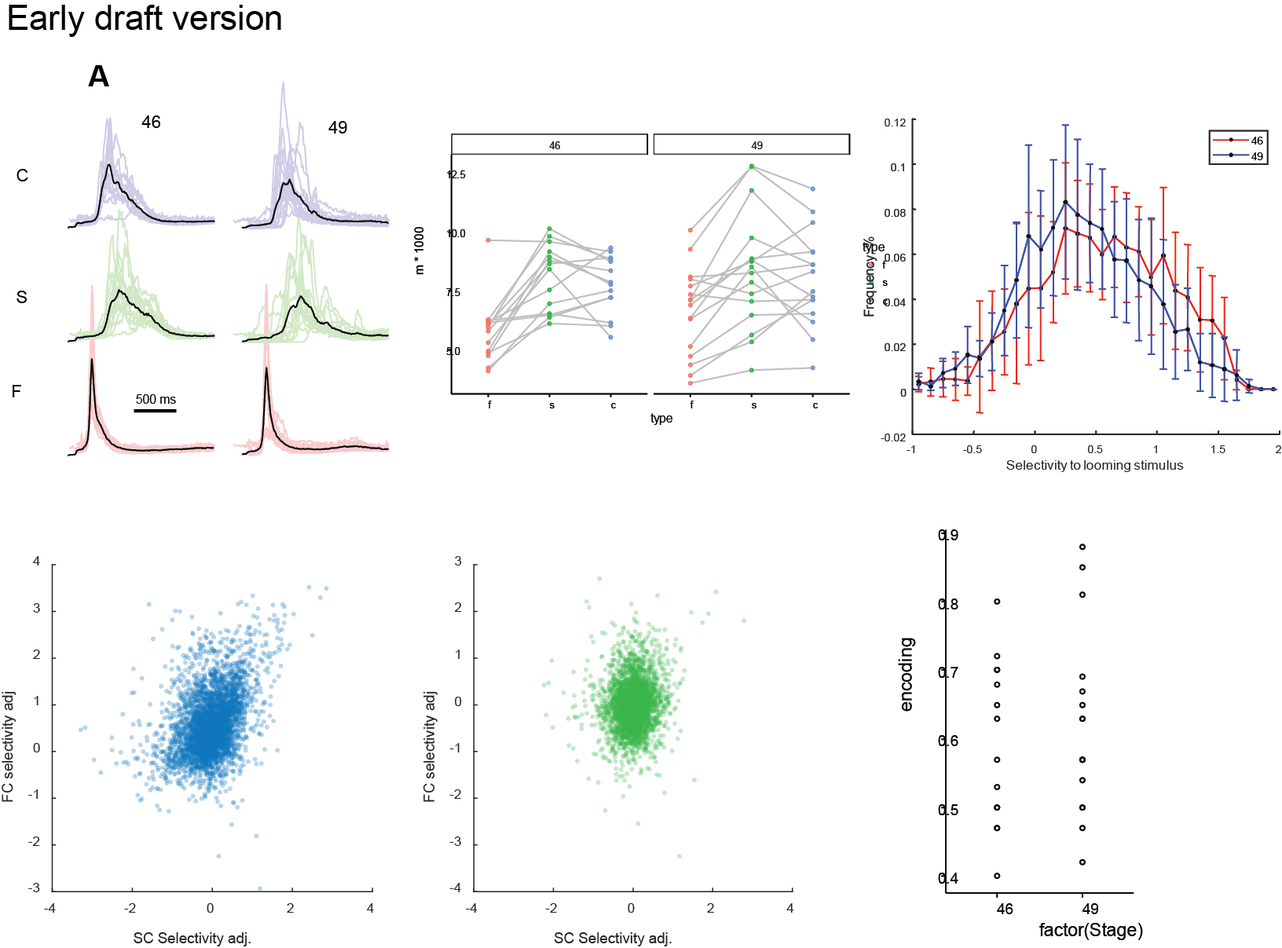
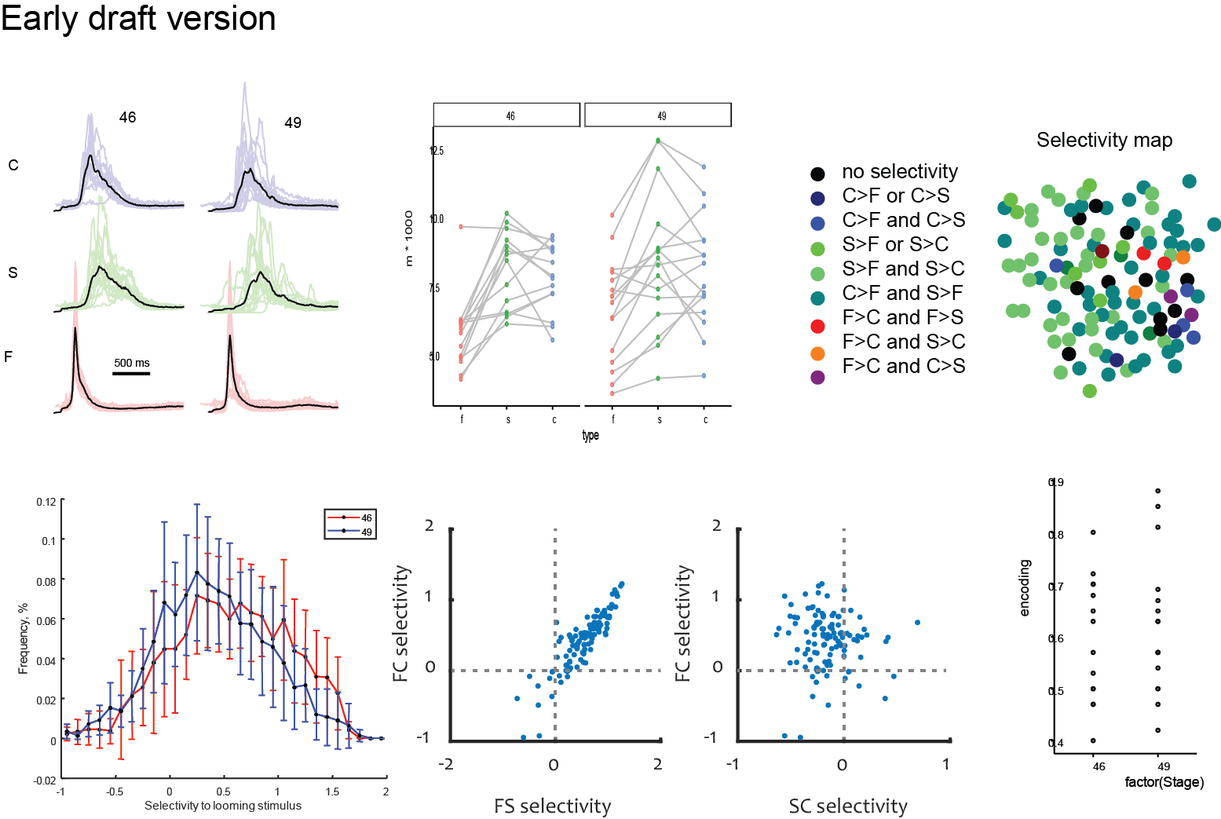
+ figure mock-ups (except fig 4); summary table reworked

diff --git a/main.tex b/main.tex
@@ -20,6 +20,7 @@
 
 %\usepackage{adjustbox} % To change margins around a table. Doesn't work?
 \usepackage{tabularx} % To set table column width, if needed
+\usepackage{rotating} % To write text sidewise
 \usepackage{xcolor}
 \renewcommand{\linenumberfont}{\normalfont\bfseries\small\color{lightgray}}
 \definecolor{linkcolor}{rgb}{0.2,0.6,0.7} % Neuron-style link color
@@ -54,13 +55,13 @@
 % Headers and footers
 \usepackage{fancyhdr}
 \pagestyle{fancy}
-\rhead{EARLY DRAFT: Khakhalin AS. Graph analysis of collision detection networks. Page \thepage}
+\rhead{Khakhalin AS. Graph analysis of collision detection networks. (EARLY DRAFT) Page \thepage}
 \cfoot{} % To kill footer page numbers
 
 \begin{document} % --------------------- Document start ----------------
 
 %TC:ignore 
-% The comment above is for texcount to ignore this text.
+% The comment above is for textcount to ignore this text.
 % It will ignore everything until the endignore pair, and so on.
 % We need to get down to 4500 words in the main text.
 
@@ -70,7 +71,7 @@
 %\twocolumn[
 \begin{flushleft}
 {\Large
-\textbf\newline{Graph analysis of collision detection networks in the tectum, and its replication in a simple computational model}
+\textbf\newline{Graph analysis of collision detection networks in the tectum, and its replication in a simple computational model (EARLY DRAFT)}
 }
 \newline
 % authors go here:
@@ -98,9 +99,9 @@ In different animals, looming detection seems to rely on a variety of networks a
 
 While this co-existence of multiple alternative solutions for looming detection may seem overwhelming, it actually matches the recent insight from the field of machine learning. Simple, crude ways of detecting important features of sensory stimuli are critical for training more sophisticated and efficient networks, that are then used for more nuanced analysis of the sensory world at later stages of development \citep{marblestone2016deeplearning}. In case of looming stimuli in tadpoles, early in development, when collision detection is weak \citep{dong2009}, animals may use “hardwired” dimming receptors in the retina to detect collisions, but also to “bootstrap” more sophisticated motion-dependent networks in the tectum. Later, these motion-dependent networks can serve as a first line of defense, identifying early phases of looming, and providing information to motor neurons in the hindbrain to perform course correction \citep{khakhalin2014,bhattacharyya2017assessment}, yet dimming detectors could remain as a backup, and mediate a more urgent and less coordinated response. Moreover, every time collision avoidance is not performed perfectly, these sensorimotor networks can be further refined, relying on inputs from the lateral line and mechanosensory detectors in the skin \citep{felch2016}.
 
-Traditionally, the golden standard for describing a mechanism of a behavior was to demonstrate that activation of a certain structure is both sufficient and required for this behavior \citep{krakauer2017reductionist}. This reductionist approach works well in some systems, such acoustic startle detectors \citep{korn2005mauthner}, or central pattern generators in the spinal cord \citep{roberts2010hatchling}, that are compact and isolated enough. Yet most systems in the brain act as complex, interconnected, distributed dynamical systems, which makes it hard to represent them as a sum of “parts”, with distinct functions ascribed to each of these parts \citep{gao2015simplicity}. It is possible to study these complex systems statistically, identifying properties that hold “on average”, and differ in functional and dysfunctional networks, but a statistical approach typically does not grant true insight into the “meaning” of these properties \citep{bassett2018models}. For example, knowing that a disordered brain does not adhere to the same statistics as a normal brain would not necessarily tell us how to “fix” this brain, even if we could rewire individual neurons in a targeted fashion.
+Traditionally, the golden standard for describing a mechanism of a behavior was to demonstrate that activation of a certain structure is both sufficient and required for this behavior \citep{krakauer2017reductionist}. This reductionist approach works well in some systems, such acoustic startle detectors \citep{korn2005mauthner}, or central pattern generators in the spinal cord \citep{roberts2010hatchling}, that are compact and isolated enough. Yet most systems in the brain act as complex, interconnected, distributed dynamical systems, which makes it hard to represent them as a sum of “parts”, with distinct functions ascribed to each of these parts \citep{gao2015simplicity}. It is possible to study these complex systems statistically, identifying properties that hold “on average”, and differ in functional and dysfunctional networks, but a statistical approach typically does not grant true insight into the “meaning” of these properties \citep{bassett2018models}. For example, knowing that a disordered brain does not adhere to the same network statistics as a normal brain would not necessarily tell us how to “fix” it, even if we had a method to rewire individual neurons in a targeted fashion.
 
-A more promising approach is to study the origin of functional structures in the brain. Most neural networks are not truly hardwired, but dynamically “evolve” from a set of developmental rules \citep{pietri2017emergence}, similar to how it happens for Turing patterns or fractals \citep{lefevre2010reaction,bullmore2012economy}, and may also rely on streams of structured sensory information coming from the external world \citep{gao2015simplicity}. This insight is encouraging, as the agents that follow these developmental rules are individual cells and their compartments, such as active dendrites and synapses, which implies that while the ultimate product of these rules may be exceedingly complex, the rules themselves have to be relatively simple \citep{bassett2018models}. It may be therefore, that our best chance to truly “understand” the brain lies in studying the sets of rules that lead to the development of functional networks \citep{linderman2017constrain}. This approach proved to be extremely fruitful recently, as several complex network phenomena, including visual receptive fields [ref], grid cells \citep{banino2018grid}, and decision circtuis \citep{haesemeyer2018convergent}, were shown to evolve spontaneously in systems governed by intuitive developmental rules and clear behavioral goals. 
+A more promising approach is to study the origin of functional structures in the brain. Most neural networks are not truly hardwired, but dynamically evolve from a set of developmental rules \citep{pietri2017emergence}, similar to how it happens for Turing patterns or fractals \citep{lefevre2010reaction,bullmore2012economy}, while also relying on streams of structured sensory information coming from the external world \citep{gao2015simplicity}. This insight is encouraging, as agents that follow these developmental rules are individual cells and their compartments, such as active dendrites and synapses, which implies that while the ultimate product of these rules is exceedingly complex, the rules themselves have to be relatively simple \citep{bassett2018models}. Together, it may mean that our best chance to truly “understand” the brain lies in identifying the space of rules that lead to the development of functional networks \citep{linderman2017constrain}. This general approach already proved to be fruitful, as several complex network phenomena, including high-order receptive fields [ref], grid cells \citep{banino2018grid}, and decision circuits \citep{haesemeyer2018convergent}, were shown to evolve spontaneously in systems governed by intuitive developmental rules. 
 
 In this paper, we look at connectomic correlates of looming selectivity in the developing optic tectum of \textit{Xenopus} tadpoles. Tadpole tectum is a model uniquely suitable for studies of sensory integration, as its neurons are excessively plastic \citep{pratt2007intrinsic}[Busch], strongly connected to each other \citep{james2015}[refs], and develop reliable looming selectivity within about a week, as tadpoles mature from developmental stage 46 to stage 49 \citep{dong2009,khakhalin2014}. The refinement of tectal connectivity is dominated by spike-time-dependent plasticity \citep{zhang1998stdp,mu2006stdp}, which is known to favor development of synfire chains \citep{fiete2010chains,zheng2014synfire}: groups of neurons linked with sequential connections that selectively respond to certain patterns of temporal activation \citep{clopath2010stdpcoding}. As  tectal neurons spike relatively slowly, with broad spikes and long refractory periods \citep{ciarleglio2015,jang2016}, these synfire chains are expected to have delays of about 10 ms from one neuron to another, compared to $\sim$2 ms in the mammalian cortex [ref]. This slower signal propagation brings intratectal connections to the threshold of direct detectability by fast Ca imaging techniques that operate at rates of ~100 frames/s, allowing observations of not just co-firing of neurons within each ensemble or clique \citep{reimann2017,avitan2017spontaneous}, but propagation of signal through these ensembles.
 
@@ -140,6 +141,12 @@ Finally, as a most holistic way to quantify tectal network selectivity, we looke
 
 To assess cell-to-cell variability of responses, we performed exploratory factor analysis (principal component analysis, followed by promax rotation) of responses within each preparation. We restricted analysis to looming stimuli, as otherwise factor analysis detected cell-to-cell differences in selectivity, while we wanted to look at differences in dynamics within a single response type. The first and second principal components explained on average 19$\pm$7\% and 4$\pm$1\% of variance in younger tadpoles, and 24$\pm$14\% and 3$\pm$1\% in older tadpoles, and were largely different response timing (Fig. 3A). Early responding cells tended to group together in one part of the recorded field (Fig. 3B), and we were able to quantify the position of this early responding group of cells in each experiment, by maximizing the correlation between distances to the center of interest, and relative scores of the early response component in each cell. The fit was robust, with $p<$ 0.05 in every experiment (30/30), and average achieved correlation of $r=$ 0.59$\pm$0.23. To assess possible overfitting, we performed same analysis after reshuffling cell identities 5 times for each experiment, which yielded average $r$ values of only 0.13$\pm$0.06, and $p_r<$ 0.05 in 21\% of experiments. From this we concluded that spatial clustering of cells with early responses to looming stimuli was not an artifact of analysis, even though "optimization of correlations" exaggerated its effect. We interpreted spatial clustering of early-responding cell is a manifestation of a retinotopic map well known to exist in the tectum \citep{ruthazer2004map}, as this map reproduced a looming stimulus projected on the retina. Across cells, the latency of average response correlated with distance from the retinotopy center ($r=$ 0.35 $\pm$ 0.24; correlations individually significant in 25/30 experiments), despite our latency estimations being noisy, especially for low-amplitude cells. Curiously, while visual projections to the tectum are known to be actively remodeled in development \citep{sakaguchi1985refinement,ruthazer2004map,munz2014hebbian}, the quality of functional retinotopic map did not differ between younger and older tadpoles, at least judging from correlations between early component prominence and cell position, that did not change in development (Fig. 3E; $r=$ 0.63 $\pm$ 0.21 and 0.57 $\pm$ 0.25 respectively, $p_t= $0.5), similar to reports in Zebrafish \citep{avitan2016limitations}.
 
+\begin{figure*}
+\includegraphics[width=\linewidth]{fig3.png}
+\caption{
+Spatial variability. \textbf{A}. \textbf{B}. \textbf{C}. \textbf{D}. \textbf{E}. \textbf{F}. }
+\end{figure*}
+
 Knowing where the looming stimulus responses originated within the tectum, we could then check whether looming-selective cells were more likely to be found in the center of the expanding activation area (as it would be expected if collision detection was retinotopic \citep{frost2004review} and based on feedback excitation \citep{jang2016}, or at the periphery, as predicted by the synfire model \citep{clopath2010stdpcoding,fiete2010chains}. We found that selectivity for looming stimuli over flash tended to decrease with distance from the estimated projection center (Fig. 3G) for both stage 45 (average $r=-$0.37$\pm$0.27; individual correlations $p_r<$0.05 in 12/14 experiments), and stage 49 tadpoles (average $r=-$0.09$\pm$0.35; $p_r<$0.05 in 12/16 experiments), indicating that looming-selective cells tended to be located in the center of the emerging spatial response. Similarly, at both developmental stages, selectivity decreased with response latency (stage 46: $p_r<$0.05 in 11/14 animals, average $r=-$0.29$\pm$0.11; stage 49: $p_r<$0.05 in 10/16 animals, average $r=-$0.16$\pm$0.21). Both correlations were weaker in older tadpoles ($p_t=$ 0.02 for distance-selectivity, $p_t=$ 0.03 for latency-selectivity), indicating a more uniform distribution of looming-selective cells within the network.
 
 % Note that here selectivity is based on total responses across a whole second, and so much of this spiking happens really late. As a result, cells that spike early are also sensitive. But it's not clear whether it's actually because they are selective (get more relevant activation), or just can be activated for longer (because they start earlier), or because they receive some later recurrent activation (which would be real, but not relevant for collision avoidance)
@@ -150,7 +157,7 @@ Knowing where the looming stimulus responses originated within the tectum, we co
 
 We then assessed the \textbf{trial-to trial variability} of tectal responses, to see whether it changed in development, as it was reported for variability of spontaneous activity \citep{xu2011}. We performed principal component analysis of response waveforms, and looked at the total number of components that was needed to describe 80\% of variability in the data \citep{avitan2017spontaneous}. We found that this number was similar in stage 46 and 49 tadpoles, with a minor increase in response richness in older animals (insignificant for each stimulus alone, but consistent across stimuli): 51$\pm$14 and 65$\pm$28, $p_t$=0.1 for responses to looming stimuli; 49$\pm$12 and 62$\pm$32, $p_t$=0.2 for flashes; 51$\pm$14 and 64$\pm$26, $p_t$=0.1 for scrambled stimuli.
 
-To describe network activation variability, we used spectral clustering technique to find \textbf{ensembles} of tectal cells that were either active together, or silent together on a trial-by-trial basis \citep{thompson2016ensembles}. Unlike for recordings of spontaneous activity, we could not easily aggregate activity states into clusters \citep{avitan2017spontaneous}, as activation in our networks was driven by shared sensory inputs. Instead, we subtracted normalized average responses of each cell from its responses in individual trials, and calculated pairwise correlations on the remaining “anomalies” of trial-by-trial activation (Fig, see “Methods”). We turned these pairwise correlations into pairwise distances in a multidimensional space, ran a series of spectral clustering partitions \citep{ng2002spectral}, and of all possible partitions, picked the one that maximized spectral modularity \citep{newman2006modularity,gomez2009community}. We found that the number of ensembles did not differ between younger and older tadpoles (10$\pm$5 in stage 45, 11$\pm$11 in stage 49; $p_t$=0.9; Fig), but in older tadpoles ensembles were less isolated from each other, producing lower values of network modularity (0.14$\pm$0.05 to 0.09$\pm$0.06, $p_t$=0.03; Fig). This implies stronger coordination between ensembles in older tadpoles. Tectal ensembles also tended to be spatially localized (Fig): cells that shared an ensemble were on average closer to each other than to cells from different ensembles, for both younger (29$\pm$9\% closer) and older animals (25$\pm$10\% closer; no difference in development $p_t$=0.3).
+To describe network activation variability, we used spectral clustering technique to find \textbf{ensembles} of tectal cells that were either active together, or silent together on a trial-by-trial basis \citep{thompson2016ensembles}. Unlike for recordings of spontaneous activity, we could not easily aggregate activity states into clusters \citep{avitan2017spontaneous}, as activation in our networks was driven by shared sensory inputs. Instead, we subtracted normalized average responses of each cell from its responses in individual trials, and calculated pairwise correlations on the remaining “anomalies” of trial-by-trial activation (see “Methods”). We turned these pairwise correlations into pairwise distances in a multidimensional space, ran a series of spectral clustering partitions \citep{ng2002spectral}, and of all possible partitions, picked the one that maximized spectral modularity \citep{newman2006modularity,gomez2009community}. We found that the number of ensembles did not differ between younger and older tadpoles (10$\pm$5 in stage 45, 11$\pm$11 in stage 49; $p_t$=0.9; Fig. 3X), but in older tadpoles ensembles were less isolated from each other, producing lower values of network modularity (0.14$\pm$0.05 to 0.09$\pm$0.06, $p_t$=0.03; Fig). This implies stronger coordination between ensembles in older tadpoles. Tectal ensembles also tended to be spatially localized (Fig. 3X): cells that shared an ensemble were on average closer to each other than to cells from different ensembles, for both younger (29$\pm$9\% closer) and older animals (25$\pm$10\% closer; no difference in development $p_t$=0.3).
 
 \subsection*{Network reconstruction}
 
@@ -159,6 +166,12 @@ The high speed of video acquisition used in this study (83 frames/s) allowed us 
 To reconstruct network connectivity, we calculated transfer entropy \citep{gourevitch2007te,stetter2012te}. Intuitively, for each pair of neurons $i$ and $j$ we quantified the amount of additional information that past activity of neuron $i$ can provide to predict current activity of neuron $j$. This is similar to calculating a cross-correlation between the activity of neurons $i$ and $j$ in frames $t$ and $t+1$ respectively, but unlike for a correlation, transfer entropy does not make assumptions about the function that links activities of neurons $i$ and $j$. It means that in a general case, TE has a higher power to detect causal links in the network \citep{stetter2012te}.
 
 In our experiments, all tectal neurons received shared inputs from the eye, which recruited them in similar response sequences in each trial. This complicated connectivity inference, as neurons could spike in a sequence both because they were connected, and because they received innervation from sequentially activated areas of the retina. To compensate for these shared inputs, we randomly reshuffled trials for every neuron, calculated average transfer entropy on reshuffled data, and subtracted it from the transfer entropy on trial-matched data \citep{gourevitch2007te,wollstadt2014te}. In essence, instead of analyzing raw responses, we analyzed small deviations from the average response, and quantified whether these deviations tended to propagate through the network, from one neuron to another. The reshuffling step also allowed us to calculate a $p$-value for each pair of neurons, and quantify how unusual the actually observed value of transfer entropy was for this pair of neurons, compared to a value arising from shared inputs, but no causal connections.
+
+\begin{figure*}[t]
+\includegraphics[width=0.5\linewidth]{fig4.png}
+\caption{
+Spatial variability. \textbf{A}. \textbf{B}. \textbf{C}. \textbf{D}. \textbf{E}. \textbf{F}. }
+\end{figure*}
 
 We interpreted transfer entropy values as approximations of weights in an connectivity matrix $\textbf{W}$, with $w_{ji}$ describing the strength of connection from neuron $i$ to neuron $j$ (Fig. 4A). We calculated $\textbf{W}$ and corresponding $p$-values independently on looming, flash, and scrambled stimuli, and used these independent estimations to ensure some level of internal replication within each experiment (see Methods). Of all possible edges, 1.6$\pm$1.4\% were found to be non-zero in all three independent analyses, which was significantly higher than 0.6$\pm$0.09\% expected if edge discoveries were random (paired t-test $p_{tp}=$ 9e-9). Finally, in each experiment, we introduced cut-offs on $w_{ji}$ and $p$-values, to exclude weak noisy edges from the connectivity graph. We automatically adjusted these cut-offs in every experiment, to set the average node degree for each network (the average number of connections per node) as close to 1.0 as possible. It means that in each network, the total number of non-zero edges in the graph was equal to the number of nodes (recorded cells); an approach common for noisy network analysis \citep{stetter2012te}[refs]. With the average total degree set at 1.0, the effective significance thresholds on $p$-values for individual edges were between 0.001 and 0.007 (median 0.004).
 
@@ -198,6 +211,12 @@ We also hypothesized that on average selectivity for looming stimuli may gradual
 
 \subsection*{Developmental Model}
 
+\begin{figure*}[t!]
+\includegraphics[width=\linewidth]{fig6.png}
+\caption{
+Spatial variability. \textbf{A}. \textbf{B}. \textbf{C}. \textbf{D}. \textbf{E}. \textbf{F}. }
+\end{figure*}
+
 As the networks we studied are complex and noisy, it was hard to provide a clear mechanistic interpretation of our results, especially as in some cases when we used alternative ways to quantify the same intuition, we found the evidence conflicting. For example, for statistical network properties, the effects of non-random degree distribution and mesoscale graph structure often affected network properties in opposite directions (Fig), leading to small total effects. Similarly, when we tried to quantify how “integrative” was the position of each cell within the connectivity graph, only some of these measurements correlated with cell selectivity for looming stimuli, and it was not clear which of these measurements are objectively “better”, in terms of reflecting the true properties of the network.
 
 To compensate for these limitations, and to provide a theoretical counterpoint to our observations, we built a mathematical model of the developing tectum, and ran this model through the same set of measurements that we applied to our experiments. The model consisted of 81 artificial neurons, arranged in a 9 by 9 grid, that were originally all connected to each other (every neuron to every neuron) with random positive (excitatory) synaptic weights (Fig). The model operated in 10 ms increments, and we interpreted the output of each neuron as its instantaneous firing rate. At each time frame we looked at the activity of the network in the previous frame, and summed up the inputs each neuron would receive from each other neuron. We then used a sliding logistic function to translate these synaptic inputs into postsynaptic spiking (see “Methods” for details).
@@ -206,7 +225,13 @@ To allow the network develop in time, we introduced three simple developmental r
 
 With these three rules at play, we exposed the model to patterned sensory stimulation, modeling retinotopic inputs from the eye. For the main series of computational experiments, we hypothesized that in biological networks, STDP-driven changes may be amplified by a learning signal \citep{savin2014stdpreward,aswolinskiy2015stdpreward} originating either in dimming receptors in the retina \citep{baranauskas2012}, or mechanosensory systems of the hindbrain \citep{pratt2009multisens,felch2016,truszkowski2017}. Therefore, in the main set of experiments, we only exposed our model to looming stimuli (but see sensitivity analysis below). The network was allowed to develop for 12500 time steps, experienced at least 500 looming stimuli, and we saved its topology at five equally spaced time points during this process, from a naive network, to its final state. We ran independent simulations 50 times, and for each network snapshot we analyzed the properties of the connectivity graph, as well as the responses of each network to “model visual stimuli” that included a looming stimulus, a scrambled stimulus, and a full-field flash. We then analyzed these data in the same way as we did for biological experiments.
 
-The summary of modeling results is shown in Fig. In development, the network became selective for looming stimuli, both in terms of the total response (by the end of development, responding to looming 99$\pm$9\% stronger than to flash) and mean selectivity (mean Cohen $d$ of responses = 1.09$\pm$0.10). The share of cells selective for looming stimuli also increased, and then saturated at $\sim$98\% level, as did the selectivity of the top 10\% of most selective cells.
+\begin{figure*}[t!]
+\includegraphics[width=\linewidth]{fig7.png}
+\caption{
+Model results. \textbf{A}. \textbf{B}. \textbf{C}. \textbf{D}. \textbf{E}. \textbf{F}. }
+\end{figure*}
+
+The summary of modeling results is shown in Fig. 7. In development, the network became selective for looming stimuli, both in terms of the total response (by the end of development, responding to looming 99$\pm$9\% stronger than to flash) and mean selectivity (mean Cohen $d$ of responses = 1.09$\pm$0.10). The share of cells selective for looming stimuli also increased, and then saturated at $\sim$98\% level, as did the selectivity of the top 10\% of most selective cells.
 
 To test whether in our model the nature of visual stimuli could be reconstructed from network activation (stimulus encoding), we used a logistic regression on a vector of total cell responses, as it was done for biological data. We then used a different dataset, consisting of equal shares of looming and non-looming stimuli, to assess the accuracy of our model. The prediction power increased in development, and plateaued at the accuracy level of $\sim$95\%. This suggests that a retinotopic STDP-driven network can achieve highly reliable looming detection if it is equipped with an output layer, potentially representing motor neurons in the hindbrain, and the weights of connections to the output layer are set correctly, e.g. via reinforcement learning.
 
@@ -224,12 +249,12 @@ Finally, we observed that most network measures changed with network development
 
 To better assess whether the predictions of the model were confirmed in experiments, we formulated a list of “atomic”, elementary statements about each of the measures were analyzed, looking at whether they changed in development, whether they increased or decreased, and whether they differed from similar measures in a randomized network (Table 1, first two columns). Overall, the model and the experiments were similar in flash-looming selectivity, but did not match in terms of scrambled-looming selectivity. The interplay between cell position and connectivity was also similar, except for the spatial distribution of looming-selective cells within the retinotopic map, which was peripheral in the model, but central in tadpoles. Changes in degree distributions were well matched, but except for modularity, other network measures did not match. When correlations between different measures of node centrality and cell selectivity were considered, some of them matched, but many did not.
 
-\newgeometry{left=1in} % This page will have smaller margins
+%\newgeometry{left=1in} % This page will have smaller margins
 \begin{table}
     \input{table1.tex}
     \caption{A summary of network phenomena observed in biological experiments, in comparison with the base model, and several reduced models. For clarity, we use $\checkmark$ for "yes", $\times$ for "no", $\land$ for "increase", $\lor$ for "decrease", $\land \lor$ for "increase followed by decrease", and $=$ for "no change". FL stands for "Flash-Looming" comparisons; SL - Scrambled-Looming comparisons; corr denotes correlation.}
 \end{table}
-\restoregeometry
+%\restoregeometry
 
 \subsection*{Sensitivity analysis}
 
@@ -430,7 +455,7 @@ with $\bar{a}$ and $\bar{b}$ representing weighted mean values:
 
 Note that this definition seems to differ slightly from the one used in the Brain Connectivity Toolbox \citep{rubinov2010toolbox}.
 
-\textbf{Unreported analyses}. For the sake of transparency, we report the list of measures that were calculated, but were hard to interpret, and so were not included in the final manuscript: four measures of weighted directed degree assortativity (in-in, in-out, out-in, and out-out); pagerank centrality; Katz centrality on reversed graph $W'$; hierarchical flow for reversed graph; node reach on direct and reversed graphs (unweighted analog of Katz centrality without attenuation); as an alternative measure of cell selectivity, McFadden’s pseudo-$R$ for a logistic fit of stimulus identity to the total response of each cell. We also made several attempts to estimate the prevalence of directed cycles in our networks, but these new measures require further validation.
+\textbf{Unreported analyses}. For the sake of transparency, we report the list of measures that were calculated, but were hard to interpret, and so were not included in the final manuscript: four measures of weighted directed degree assortativity (in-in, in-out, out-in, and out-out); pagerank centrality; Katz centrality on reversed graph $W'$; hierarchical flow for reversed graph; node reach on direct and reversed graphs (unweighted analog of Katz centrality without attenuation); as an alternative measure of cell selectivity, McFadden’s pseudo-$R$ for a logistic fit of stimulus identity to the total response of each cell, as an alternative measure of cell selectivity. We also made several attempts to estimate the prevalence of directed cycles in our networks, but realized that these new measures require excessive  validation.
 
 \subsection*{Developmental Model}
 
@@ -468,11 +493,11 @@ where $c$ is a steepness parameter, set at $c=$ 20, and $h_i(t)$ is the current 
 
 where $\kappa=$ 0.05 is a constant that controls the rate of averaging, and $r_h=$ 0.1 is the rate at which spiking thresholds $h_i$ were allowed to adjust, to bring the discrepancy between the target spiking rate $\hat{s_i}$ and running average spiking rate $\bar{s_i}(t)$ to zero.
 
-Once spiking of each neuron at the new time step $s_i(t)$ was calculated, we performed the \textbf{spike-time dependent plasticity} (STDP) step, and adjusted synaptic weights $w_{ji}$ linking neurons in the network. The intuition behind STDP in discrete time can be described by the following system, with options 1 and 2 not mutually exclusive:
+Once spiking of each neuron at the new time step $s_i(t)$ was calculated, we performed the \textbf{spike-time dependent plasticity} (STDP) step, and adjusted synaptic weights $w_{ji}$ linking neurons in the network. The intuition behind STDP in discrete time can be described by the following system, with options 1 and 2 not being mutually exclusive:
 
 \[ w_{ji}(t+1) = \left \{ \begin{array}{lll} w_{ji}(t)+\epsilon, & \text{if } s_i(t)\neq 0 \text{ and } s_j(t+1)\neq 0 \\ w_{ji}(t)-\epsilon, & \text{if } s_i(t)\neq 0 \text{ and } s_j(t)\neq 0 \\ w_{ji}(t) & \text{if } s_i(t)=0\end{array} \right. \]
 
-As in our model neuronal activity $s_i(t)$ was continuous, the non-exclusive system above can be represented by the formula:
+where $\epsilon$ is a change in synaptic weight. As in our model neuronal activity $s_i(t)$ was continuous, and we wanted the synaptic change to be proportional to the overlap in neuronal activity, the non-exclusive system above can be rewritten as:
 
 \[ w_{ji}(t+1) = w_{ji}(t) + r_w \big(s_i(t)w_{ji}(t)s_j(t+1) - s_i(t)w_{ji}(t)s_j(t)\big) \]
 
@@ -482,7 +507,7 @@ or
 
 where $r_w$ is a constant that controls the level of synaptic plasticity; for this model $r_w$ = 0.25 .
 
-Finally, we modeled \textbf{synaptic competition} by introducing a negative feedback, to limit the total sum of all inputs to each neuron, and all output of each neuron. At every time step, we used the weight matrix W to calculate a modified matrix $\textbf{W}^\text{i}$, with sum of inputs to each neuron normalized to a certain fixed value $g$ = 1.5, and a modified weight matrix $\textbf{W}^\text{o}$, for which the total sum of outputs of each neuron was normalized to the same value: 
+Finally, we modeled \textbf{synaptic competition} by introducing a negative feedback, to limit the total sum of all inputs to each neuron, and all output of each neuron. At every time step, we used the weight matrix $\textbf{W}$ to calculate a modified matrix $\textbf{W}^\text{i}$, with sum of \textit{inputs} to each neuron normalized to a certain fixed value $g$ = 1.5, and a modified weight matrix $\textbf{W}^\text{o}$, for which the total sum of \textit{outputs} of each neuron was normalized to the same value: 
 
 \[ w_{ji}^\text{i} = g \cdot w_{ji}/\sum_k{w_{jk}} \]
 \[ w_{ji}^\text{o} = g \cdot w_{ji}/\sum_k{w_{ki}} \]
@@ -491,7 +516,7 @@ We then “moved” our actual weight matrix in the direction of the average of 
 
 \[ w_{ji}(t+1) = 0.4 \cdot w_{ji} + 0.3 \cdot w^\text{i}_{ji} + 0.3 \cdot w^\text{o}_{ji} \]
 
-Networks were activated with \textbf{simulated visual stimuli} that resembled sensory activation a real animal would have experienced when navigating in a bright-lit environment with sparsely placed black spheres. For general visual stimulation (only used in sensitivity experiments), we repeatedly created unique collision events, with randomized original position of a black sphere relative to the tadpole, final distance to the tadpole, and direction of movement through the visual field. We would then move the projection of this virtual sphere across the virtual retina over a course of $\tau=$10 time frames.  When training on looming stimuli (main series of computational experiments), we still initiated objects at random points within the visual field, but made sure that they approached the eye on a "collision trajectory", and at some point covered the entirety of the visual field. When training on noise, we generated random noise with $\zeta$=9 pixels flicking on at any given time. For looming and "general visual" stimuli, a projection of a sphere on the virtual retina was a solid circle, with its center moving linearly $(x,y) = (x_0,y_0)+(v_x,v_y)\cdot t/\tau$, and circle radius changing as $R(t) = R_0/(d_0 - v_z*t/\tau)$. The virtual retina consisted of 81 pixels, arranged in a 9x9 grid, that generated both "ON" and "OFF" responses without delay or bursting, as an exclusive OR of two consecutive projections $\text{in}(t) = \text{XOR}(\text{img}(t),\text{img}(t-1))$, and had one-to-one projections to nodes in the model network.For testing, we compared responses to flashes, crashes, and scrambled stimuli. "Crashes" were different from looming stimuli in that the change of projection radius with time was linear $R(t) = \sqrt{2}\zeta/2(t/\tau)$, rather than realistic; this was because we used linearly expending looming stimuli in biological experiments, both in this study, and in earlier studies \citep{khakhalin2014}. "Scrambled" stimuli were identical to "Crashes", with all 81 pixels randomly reassigned. "Flashes" were modeled as very fast looming stimuli that took exactly 2 frames to fill the entire field of view, and with pixels reshuffled; we had to use this approximation to introduce some variability into responses to flashes, while keeping them as close to instantaneous as possible.
+Networks were activated with \textbf{simulated visual stimuli} that resembled sensory activation a real animal would have experienced when navigating in a bright-lit environment with sparsely placed black spheres. For general visual stimulation (only used in sensitivity experiments), we repeatedly created unique collision events, with randomized original position of a black sphere relative to the tadpole, final distance to the tadpole, and direction of movement through the visual field. We would then move the projection of this virtual sphere across the virtual retina over a course of $\tau=$ 10 time frames.  When training on looming stimuli (main series of computational experiments), we still initiated objects at random points within the visual field, but made sure that they approached the eye on a "collision trajectory", and at some point covered the entirety of the visual field. When training on noise, we generated random noise with $\zeta=$ 9 pixels flicking on at any given time. For looming and "general visual" stimuli, a projection of a sphere on the virtual retina was a solid circle, with its center moving linearly $(x,y) = (x_0,y_0)+(v_x,v_y)\cdot t/\tau$, and circle radius changing as $R(t) = R_0/(d_0 - v_z \cdot t/\tau)$. The virtual retina consisted of 81 pixels, arranged in a 9x9 grid, that generated both "ON" and "OFF" responses without delay or bursting, as an exclusive OR of two consecutive projections $\text{in}(t) = \text{XOR}(\text{img}(t),\text{img}(t-1))$, and had one-to-one projections to nodes in the model network.For testing, we compared responses to flashes, crashes, and scrambled stimuli. "Crashes" were different from looming stimuli in that the change of projection radius with time was linear $R(t) = \zeta/2 \cdot \sqrt{2} \cdot t/\tau$, rather than realistic; this was because we used linearly expending looming stimuli in biological experiments, both in this study, and in earlier studies \citep{khakhalin2014}. "Scrambled" stimuli were identical to "Crashes", but with all 81 pixels randomly reassigned. "Flashes" were modeled as very fast looming stimuli that took exactly 2 frames to fill the entire field of view, and with pixels reshuffled; as our model was deterministic, we had to use this approximation to introduce some variability into responses to flashes, while keeping them as close to instantaneous as possible.
 
 While testing networks trained on different sensory stimuli, we ran into a surprising complication: during training, different stimuli provided different levels of average activation, and so not only differently shaped synaptic connections between different cells, but also, because of intrinsic plasticity, resulted in neurons acquiring different activation thresholds. This difference in excitability however was an artifact of our training method, and did not approximate any real biological phenomena, as in real tadpoles visual stimuli are expected to be relatively sparse, while we fed all stimuli to the network as one intense train with no gaps. We therefore decided to let all spiking thresholds settle down before testing, to a state that was dependent only on synaptic connectivity, and not on recent stimulation history. We let the model develop for 2000 additional time steps, with only homeostatic plasticity rule on, but without STDP or synaptic scaling, while feeding all neurons with Poisson random noise that activated on average $\zeta$ = 9 neurons at each time step. 
 
@@ -517,7 +542,7 @@ we used an equation with symmetrical Hebb plasticity, and no negative depression
 
 \section*{Acknowledgements}
 
-My greatest gratitude is to Carlos Aizenman who encouraged me to publish this work as a single author, even though the experiments described here were performed on his equipment, and the materials were paid for by the money from his grant (NSF IOS-1353044). I also thank Heng Xu (Shanghai Jiao Tong University) for his help with first imaging experiments; Joshua Vogelstein (John Hopkins) for his advice on adaptive thresholding; Petko Bogdanov (SUNY Albany), Csilla Szabo (Skidmore College), Gerrit Ansmann (Bonn University), and Jim Belk (St Andrews University) for their help with network science and graph theory, and Sven Anderson (Bard College) for advice on model analysis.
+My greatest gratitude is to Carlos Aizenman who encouraged me to try to publish this work as a single author, even though all experiments described here were performed on his equipment, and the materials were paid for by the money from his grant (NSF IOS-1353044). I also thank Heng Xu (Shanghai Jiao Tong University) for his help with first imaging experiments; Joshua Vogelstein (John Hopkins) for his advice on adaptive thresholding; Petko Bogdanov (SUNY Albany), Csilla Szabo (Skidmore College), Gerrit Ansmann (Bonn University), and Jim Belk (St Andrews University) for their help with network science and graph theory, and Sven Anderson (Bard College) for advice on model analysis.
 
 % \section*{Declaration of Interests}
 

diff --git a/table1.tex b/table1.tex
@@ -4,11 +4,24 @@
 \newcolumntype{L}{>{$}l<{$}} % math-mode version of "l" column type
 \begin{tabular}{lLLLLLLL}
 \textbf{Observation} & 
-\multicolumn{1}{|l}{\textbf{Imaging}} & 
+\multicolumn{1}{|l}{} & 
 \multicolumn{6}{|c}{\textbf{Model}}\\
-\cline{3-8}
- & \multicolumn{1}{|l}{ } & \multicolumn{1}{|l}{Base} & 
- \text{-STDP} & \begin{tabular}{l}-Syn.\\Comp.\end{tabular} & \text{-Intrinsic} & \text{Visual} & \text{Noise} \\
+\cline{3-8} &
+\multicolumn{1}{|l}{\begin{turn}{90}\textbf{Imaging}\end{turn}} & 
+\multicolumn{1}{|l}{
+  \begin{turn}{90}Base\end{turn}
+} & 
+%\text{-STDP} & 
+\begin{turn}{90}\text{No STDP}\end{turn} &
+%\begin{tabular}{l}No\\Syn.\end{tabular} & 
+\begin{turn}{90}\text{No Syn. Comp. }\end{turn} &
+%\begin{tabular}{l}No\\Intrins.\end{tabular} & 
+\begin{turn}{90}\text{No Instrinsic}\end{turn} &
+%\text{Visual} & 
+\begin{turn}{90}\text{Visual}\end{turn} &
+%\text{Noise} 
+\begin{turn}{90}\text{Noise}\end{turn}
+\\
 \hline
 Brain FL selectivity & \checkmark & \checkmark & \checkmark & \checkmark & \times & \checkmark & \checkmark \\
 Brain selectivity, change & =	& \land	\lor	& 	\land \lor	& \land & = & \land & =\\
@@ -23,7 +36,7 @@ Av. SL selectivity $d$ & -0.05 & 0.5 & 0.7 & 0.5 & -0.5 & 0.2 & 0\\
 Av. SL selectivity, change & = & \land & \land \lor & \land & \lor & \land & = \\
 \% SL select. cells & 50\% & 80\% & 90\% & 70\% & 20\% & 70\% & 50\% \\
 \% SL select. cells, change & = & \land & \land & \land & \lor & \land & \lor \\
-SL skew, change & = & \land & \land \lor & \land & - & \land \lor & -\\
+%SL skew, change & = & \land & \land \lor & \land & - & \land \lor & -\\
 corr(FS,FL) & \checkmark & \checkmark & \checkmark & \checkmark & \checkmark & \times & \checkmark \\
 corr(SL,FL) & \times & \checkmark & \checkmark & \checkmark & \checkmark & \checkmark & \checkmark\\
 Stim. decoding, change & = & \land & \land & \land & \lor & \land & \land \lor \\
@@ -34,29 +47,28 @@ Ensembles spatially local & \checkmark & \checkmark & \checkmark & \checkmark & 
 Ensembles overconnected & \checkmark & \checkmark & \checkmark & \times & \checkmark & \checkmark & \checkmark\\
 \% two-way edges, change & \lor & \lor & \lor \land & \lor & \lor & \lor & \lor \\
 \hline
-\multicolumn{8}{l}{\textbf{Connections between cells:}}\\
-Spatially close & \checkmark & \checkmark & \times & \times & \checkmark & \checkmark & \times \\
-Become closer & \times & \times & \times & \times & \times & \times & \times \\
-Point to periphery: & = & = & = & \checkmark & = & = & =\\
-Increase selectivity & \times & \times & \times & \checkmark & \times & \times & \times \\
+\multicolumn{8}{l}{\textbf{Connected cells:}}\\
+Are spatially close & \checkmark & \checkmark & \times & \times & \checkmark & \checkmark & \times \\
+Get closer in development& \times & \times & \times & \times & \times & \times & \times \\
+Edges point to periphery & = & = & = & \checkmark & = & = & =\\
+Edges increase selectivity & \times & \times & \times & \checkmark & \times & \times & \times \\
 \hline
 \multicolumn{8}{l}{\textbf{Network properties:}}\\
-Degree $k=0$, change & \lor & \lor & \lor & \land & \lor & \lor & \lor \\
-Degree $k=1-2$, change & \land & \land & \land & \lor & \land & \land & \land \\
-Degree $k\geqslant 5$, change & \lor & \lor & \lor & \land & \lor & \lor & \lor \\
-Degree power constant $\gamma$ & \land & \land & \land & \lor & \land & \land & \land \\
+%Degree $k=0$, change & \lor & \lor & \lor & \land & \lor & \lor & \lor \\
+%Degree $k=1-2$, change & \land & \land & \land & \lor & \land & \land & \land \\
+%Degree $k\geqslant 5$, change & \lor & \lor & \lor & \land & \lor & \lor & \lor \\
+Degree power constant $\gamma$ change & \land & \land & \land & \lor & \land & \land & \land \\
 Efficiency change & = & \land & \land & \lor & \land & \land & \land \\
 Clustering change & = & \lor & \lor & \lor & \lor & \lor & \lor \\
 Modularity change & \land & \land & \land & \land & \land & \land & \land \\
 Hierarchy change & = & \land & \land & \land & \land & \land & -\\
 \hline
 \multicolumn{8}{l}{\textbf{Properites of selective cells:}}\\
-Grouped in the center & \checkmark & \times & \times & \times & = & \times & \times\\
-Grouped at the edges & \times & \checkmark & \checkmark & \checkmark & = & \checkmark & \checkmark\\
+Center / Periphery / No preference & \text{C} & \text{P} & \text{P} & \text{P} & \text{N} & \text{P} & \text{P}\\
 Spatial grouping, change & \lor & \lor & \lor & \lor & \land & \lor & \lor \\
-High in-degree $k_{in}$ & \checkmark & \times & \times & \checkmark & \times & \times & \times\\
-High Katz rank & \checkmark & \times & \times & \checkmark & \times & \times & \times\\
+Have high in-degree $k_{in}$ & \checkmark & \times & \times & \checkmark & \times & \times & \times\\
+Have high Katz rank & \checkmark & \times & \times & \checkmark & \times & \times & \times\\
 Are more spiky & \checkmark & \checkmark & \checkmark & \checkmark & \checkmark & \checkmark & \times\\
-Assortative& \checkmark & \checkmark & \checkmark & \checkmark & \checkmark & \checkmark & \checkmark\\
-Unusual clustering coeff.& = & \text{low} & = & \text{high} & \text{low} & = & =\\
+Assortatively connected & \checkmark & \checkmark & \checkmark & \checkmark & \checkmark & \checkmark & \checkmark\\
+%Have unusual clustering coeff. & = & \text{low} & = & \text{high} & \text{low} & = & =\\
 \end{tabular}
